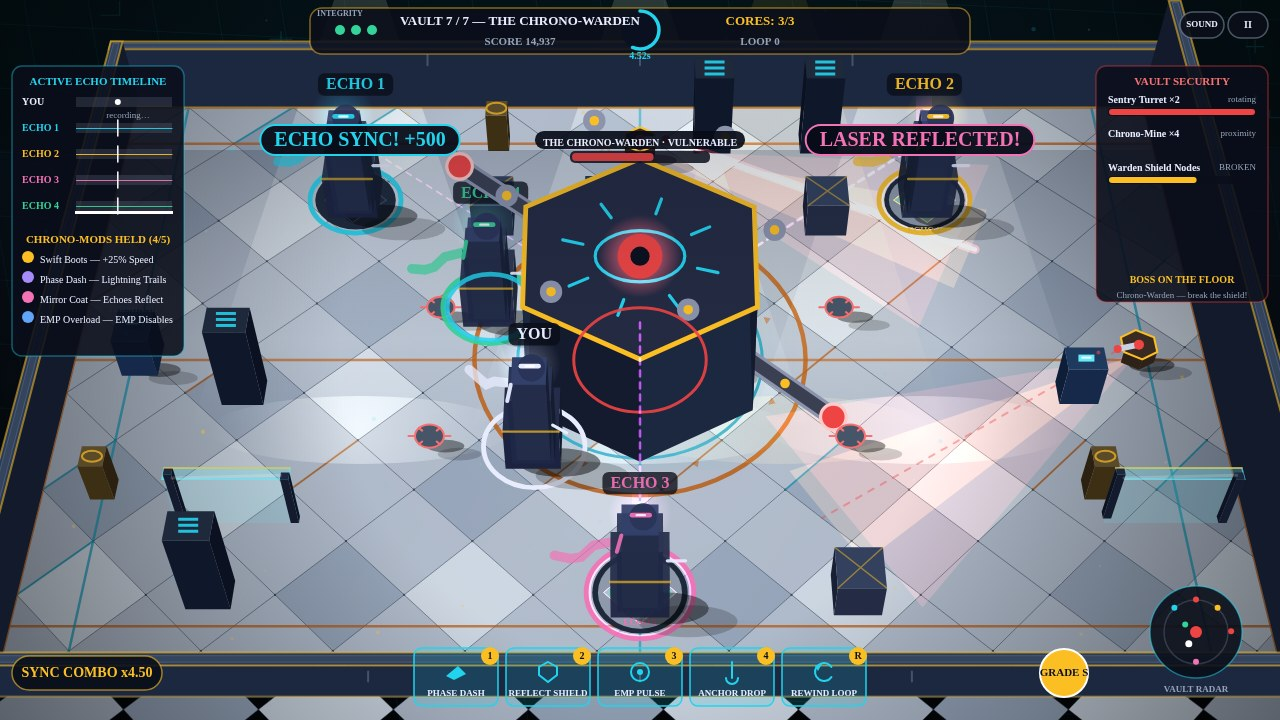
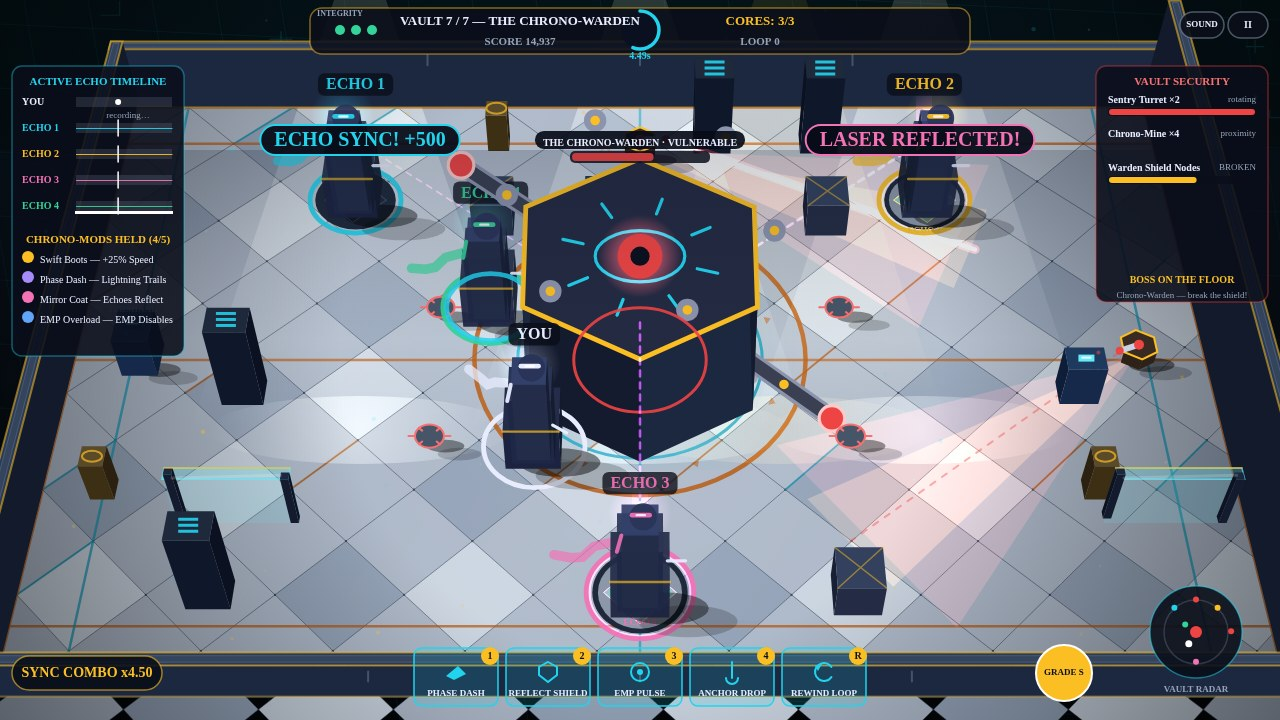
ECHO VAULT: micro-fix — grade medal fits text, subtitle pill badge
- Grade medal: radius 24->28, text bold 11px->9px; 'GRADE A' (41.3px) now fits inside the 56px medal with ~7px padding. All grades S/A/B/C measured <=41.3px at 9px.
- Title subtitle: dark translucent pill (380x36, rgba(5,7,13,0.82)) behind 'Break Time. Steal Everything.' (309px wide); tagline pill moved down 10px for clear space. Replaces the halo-only approach.
- Parameter tweaks only; game/ 162,307 B (cap 163,840 B).

Changed region(s): [[0.5938, 0.5194, 0.875, 0.8556], [0.7812, 0.8861, 0.875, 0.9778], [0.3438, 0.2139, 0.4062, 0.275]]

diff --git a/game/src/render.js b/game/src/render.js
@@ -1261,13 +1261,13 @@ export function drawHUD(ctx, G, time) {
   pill(ctx, 12, 656, 150, 34, 'rgba(10,14,26,0.9)', 'rgba(251,191,36,0.6)');
   text(ctx, `SYNC COMBO x${st.combo.toFixed(2)}`, 87, 673, 'bold 14px Georgia, serif', GOLD);
   ctx.beginPath();
-  ctx.arc(1064, 673, 24, 0, Math.PI * 2);
+  ctx.arc(1064, 673, 28, 0, Math.PI * 2);
   ctx.fillStyle = st.grade === 'S' ? '#fbbf24' : st.grade === 'A' ? '#c9d1e3' : '#b45309';
   ctx.fill();
   ctx.strokeStyle = '#fff';
   ctx.lineWidth = 2;
   ctx.stroke();
-  text(ctx, 'GRADE ' + st.grade, 1064, 673, 'bold 11px Georgia, serif', '#0b1020');
+  text(ctx, 'GRADE ' + st.grade, 1064, 673, 'bold 9px Georgia, serif', '#0b1020');
   ctx.restore();
 
   // --- Vault Radar (bottom-right) ---
@@ -1366,6 +1366,13 @@ function titleHeaderSprite() {
   x.fillText('ECHO VAULT', 640, 108);
   x.shadowBlur = 0;
   x.font = 'bold 20px Georgia, serif';
+  // Dark translucent pill behind the subtitle (text is 309px wide) so it
+  // reads 100% sharp on the bright floor; fully backs the text incl.
+  // descenders, with clear space to the tagline pill below.
+  x.fillStyle = 'rgba(5,7,13,0.82)';
+  x.beginPath();
+  x.roundRect(640 - 190, 136, 380, 36, 18);
+  x.fill();
   x.fillStyle = '#22d3ee';
   x.fillText('— Break Time. Steal Everything. —', 640, 152);
   // The sub-tagline sits over the bright floor (the arena's far edge is
@@ -1373,11 +1380,11 @@ function titleHeaderSprite() {
   // text on the light floor would be invisible without one.
   x.fillStyle = 'rgba(5,7,13,0.82)';
   x.beginPath();
-  x.roundRect(640 - 250, 168, 500, 30, 15);
+  x.roundRect(640 - 250, 178, 500, 30, 15);
   x.fill();
   x.font = '15px Georgia, serif';
   x.fillStyle = '#cbd5e1';
-  x.fillText('Eight seconds a loop. Four past selves. One impossible heist.', 640, 184);
+  x.fillText('Eight seconds a loop. Four past selves. One impossible heist.', 640, 194);
   titleHeader = c;
   return c;
 }
